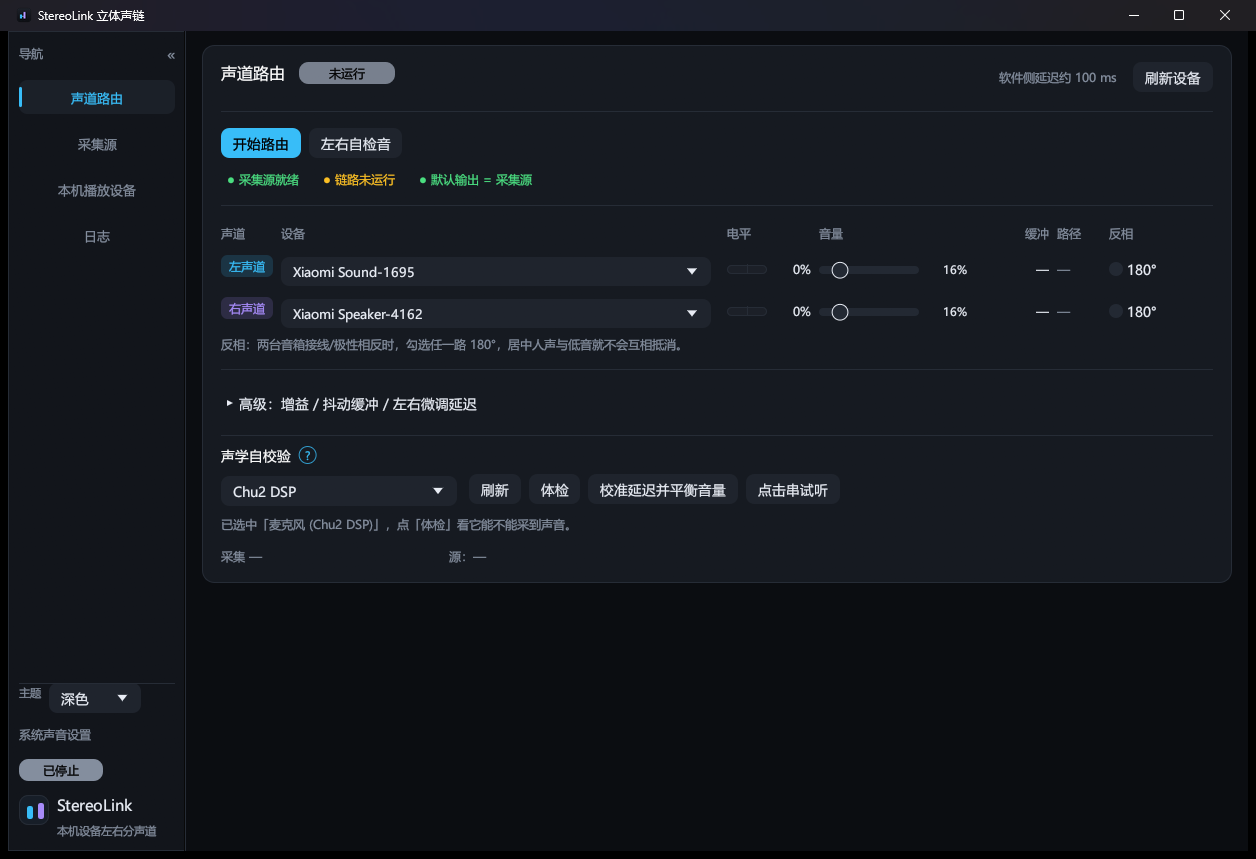
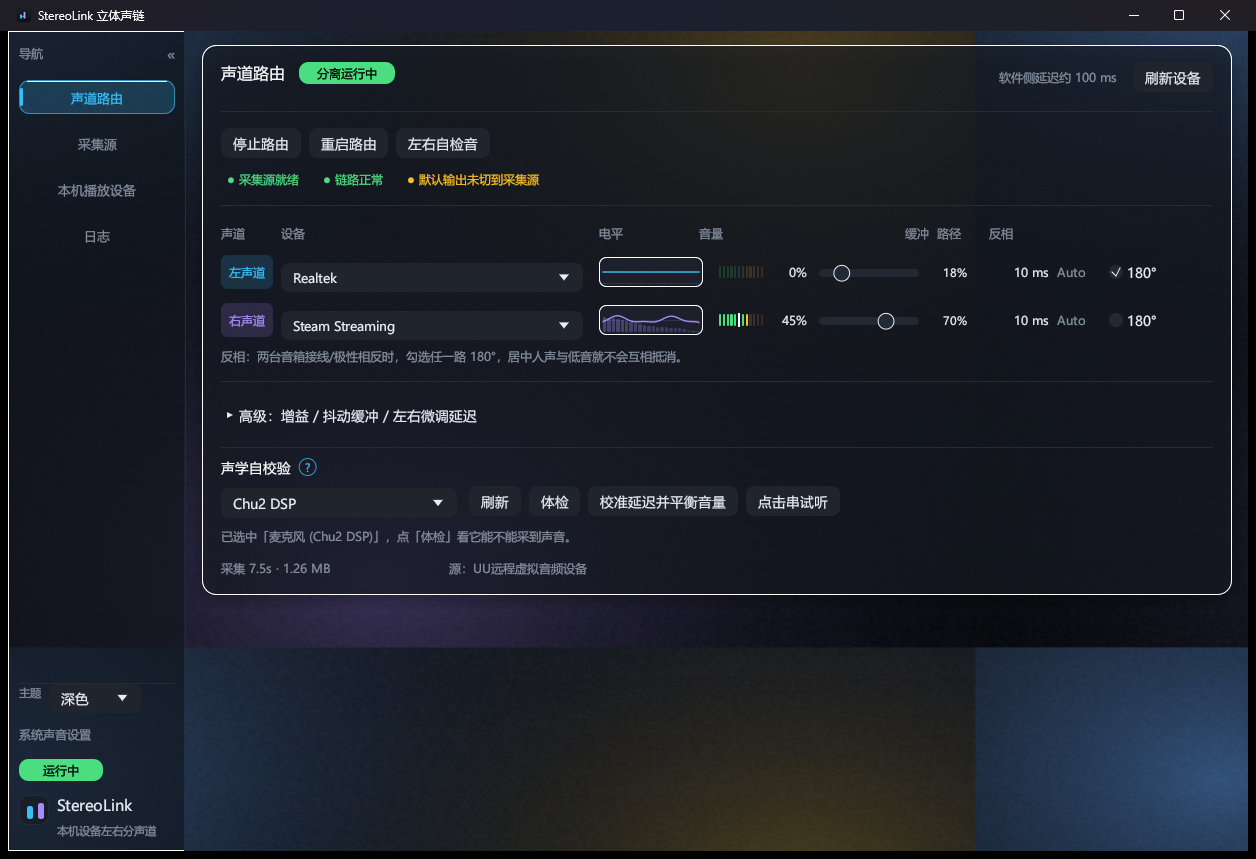
docs: v0.5.0 玻璃拟态界面文档与截图（含浅色主题图）

diff --git a/docs/gui.md b/docs/gui.md
@@ -5,7 +5,7 @@
 
 ![StereoLink 面板](images/gui.png)
 
-- 程序形态：单个 exe（EGUI/OpenGL 绘制），没有安装包、没有后台服务、没有网页前端。
+- 程序形态：单个 exe（EGUI/OpenGL 绘制），也可用安装包安装；没有后台服务、没有网页前端。
 - 运行前提：本机有一个**不会被听见的输出端点**可以当采集源（虚拟音频设备，或没接音箱 / 显示器的
   物理输出）。**零安装就能用**：不用装驱动、不用重启、不用第三方软件。
 - 没有现成的无声端点时：运行一次 UU远程（免费，会装好一个虚拟音频设备），或安装可选的
@@ -38,9 +38,9 @@
 │ [开始路由] [左右自检音]                                       [刷新设备]      │
 │ ● 采集源就绪      ● 链路正常      ● 默认输出 = 采集源                        │
 │ ──────────────────────────────────────────────────────────────────────────── │
-│ 声道 设备            电平  音量      缓冲 路径  反相                          │
-│ 左声道 [▼ 设备 A]   [▁▁]  ▁▁●▁▁ 32%  0 ms  Auto  □ 180°                      │
-│ 右声道 [▼ 设备 B]   [▁▁]  ▁▁●▁▁ 32%  0 ms  Auto  □ 180°                      │
+│ 声道 设备            波形+频谱  电平  音量      缓冲 路径  反相                │
+│ 左声道 [▼ 设备 A]   ∿∿∿∿∿∿  ▮▮▮▯▯  ▁▁●▁▁ 32%  0 ms  Auto  □ 180°            │
+│ 右声道 [▼ 设备 B]   ∿∿∿∿∿∿  ▮▮▮▯▯  ▁▁●▁▁ 32%  0 ms  Auto  □ 180°            │
 │ 反相：两台音箱接线/极性相反时，勾选任一路 180°，居中的人声与低音…              │
 │ ▸ 高级：增益 / 抖动缓冲 / 左右微调延迟                                        │
 │ 声学自校验 [麦克风 ▼] [刷新] [体检] [校准延迟并平衡音量]                      │
@@ -63,6 +63,25 @@
 - 界面每 250 ms 刷新一次（电平、诊断、统计跟随刷新）；真正的端点枚举在后台线程里做，
   所以拖窗口、切页不会卡（见 [FAQ](#常见问题)）。
 - 四个页面：**声道路由**（默认页）、**采集源**、**本机播放设备**、**日志**。
+
+## 外观与主题
+
+面板用「玻璃拟态」视觉：**柔光底纹 + 半透明卡片 + 描边高光**。底层是一张预渲染的柔光纹理
+（竖直渐变 + 三团缓慢漂移的色斑 + 极淡噪点，画在窗口最底层、每帧只改 UV 不重新栅格化），
+四张卡片是叠在上面的半透明玻璃面（1 px 描边 + 投影），所以整块界面有层次和深度。
+
+- **主题**：侧边栏底部可选 **白天 / 黑夜 / 跟随系统**，选择会写进配置（`theme`），下次启动照旧。
+  「跟随系统」跟着 Windows 的应用深浅色设置实时切换。
+- **行内波形 + 频谱**：路由表每一路都有一条 104×30 的迷你画布——底纹是 22 根对数频谱柱，
+  前景是该声道的波形线（左声道蓝、右声道琥珀），**由这一路真实的电平驱动**，快攻慢放、带峰值保持。
+- **分段电平条**：电平列是 12 段刻度（绿 → 黄 → 红）+ 峰值保持白线，比进度条更容易看出余量。
+- **动效**：侧边栏选中胶囊平滑移动、按钮悬停抬升 / 按下回弹、卡片悬停描边提亮；
+  页面切到非路由页或窗口收进托盘时停止重绘，不空转 CPU。
+- 所有装饰都是**只读的显示**：关掉路由后波形会回落到静止，不会影响音频本身。
+
+浅色主题下的同一页：
+
+![浅色主题](images/gui-light.png)
 
 ## 侧边栏与四个页面
 

diff --git a/CHANGELOG.md b/CHANGELOG.md
@@ -4,6 +4,34 @@
 
 ## [未发布]
 
+## [0.5.0] - 2026-10-18
+
+界面外观重做：按毛玻璃（glassmorphism）设计语言重画面板——柔光底纹 + 半透明玻璃卡片 +
+描边高光，路由表加上由真实电平驱动的行内波形 / 频谱与分段电平条。功能与上一版一致。
+
+### 新增
+
+- **玻璃拟态设计系统**（`crates/stereo-link/src/theme.rs`）：玻璃填充 / 描边 / 高光 token、
+  深色与浅色两套配色、`glass_frame()` 玻璃卡片、`background_texture()` 预渲染柔光底纹、
+  `nav_capsule()` 导航胶囊、`segmented_level()` 分段电平条、`WaveBuf` 波形与频谱缓冲。
+- **柔光底纹**：512×512 预渲染纹理（竖直渐变 + 三团缓慢漂移的色斑 + 确定性噪点）画在窗口最底层，
+  每帧只改 UV 做漂移，不重新栅格化；egui 没有 `backdrop-filter`，用「底纹 + 半透明面板」近似真玻璃。
+- **行内波形 + 频谱**：路由表每路一条 104×30 画布，底纹 22 根对数频谱柱、前景该声道波形线
+  （左声道蓝 `#60A5FA`、右声道琥珀 `#FBBF24`），由 `RouteStats.level` 驱动，快攻 60 ms / 慢放 260 ms + 峰值保持。
+- **分段电平条**：电平列由进度条改为 12 段刻度（绿 → 黄 → 红）+ 峰值保持白线。
+- **采集链路插桩**（`crates/stereo-audio/src/route.rs`，`STEREOLINK_CAPTURE_TRACE=1` 门控）：
+  排查「电平一直是 0」时按需打印进入 / 解析端点 / 激活 / 混音格式 / Initialize / 开流 / 暂无数据包。
+
+### 变更
+
+- 路由表新增「波形」列、行高 28 → 40 px，列宽重新配平；侧边栏导航项改用选中胶囊 + 平滑过渡。
+- 内容区改为透明填充以露出底纹；重绘心跳分三档（窗口隐藏 1 s / 路由页且有引擎 100 ms / 其它 250 ms），
+  切到非路由页或收进托盘时不再空转重绘。
+
+### 修复
+
+- 删除 P0 改造中失去调用点的旧 `level_bar()`（死代码）。
+
 ## [0.4.0] - 2026-10-18
 
 界面第二版：顶栏取消，身份 / 运行状态 / 主题 / 系统声音设置并入侧边栏，操作按钮与诊断徽章归到

diff --git a/README.md b/README.md
@@ -83,6 +83,9 @@ StereoLink 补的就是这一块：把系统声音拆成左 / 右两路，分别
 - **声学自校验**：可以用本机麦克风量出两台音箱的真实到达时间差，自动给较慢的一路垫延迟；同一
   次测量还会给出左右音量平衡建议，可一键「应用并复测」；没有麦克风时用「点击串试听」靠人耳
   手动微调。
+- **玻璃拟态界面**：柔光底纹 + 半透明玻璃卡片 + 描边高光；路由表每路带**行内波形 + 频谱**
+  （由这一路真实电平驱动，左声道蓝 / 右声道琥珀）和**分段电平条**（绿→黄→红 + 峰值保持）；
+  白天 / 黑夜 / 跟随系统三态主题，动效克制、切页与收托盘时停止重绘。
 - **可收起侧边栏 + 四个页面**：声道路由 / 采集源 / 本机播放设备 / 日志；没有顶部工具栏，
   身份、运行状态、主题（白天 / 黑夜 / 跟随系统）与「系统声音设置」都在侧边栏底部，
   操作按钮和 3 个诊断徽章（采集源就绪 / 链路正常 / 默认输出 = 采集源）在声道路由页顶部。
